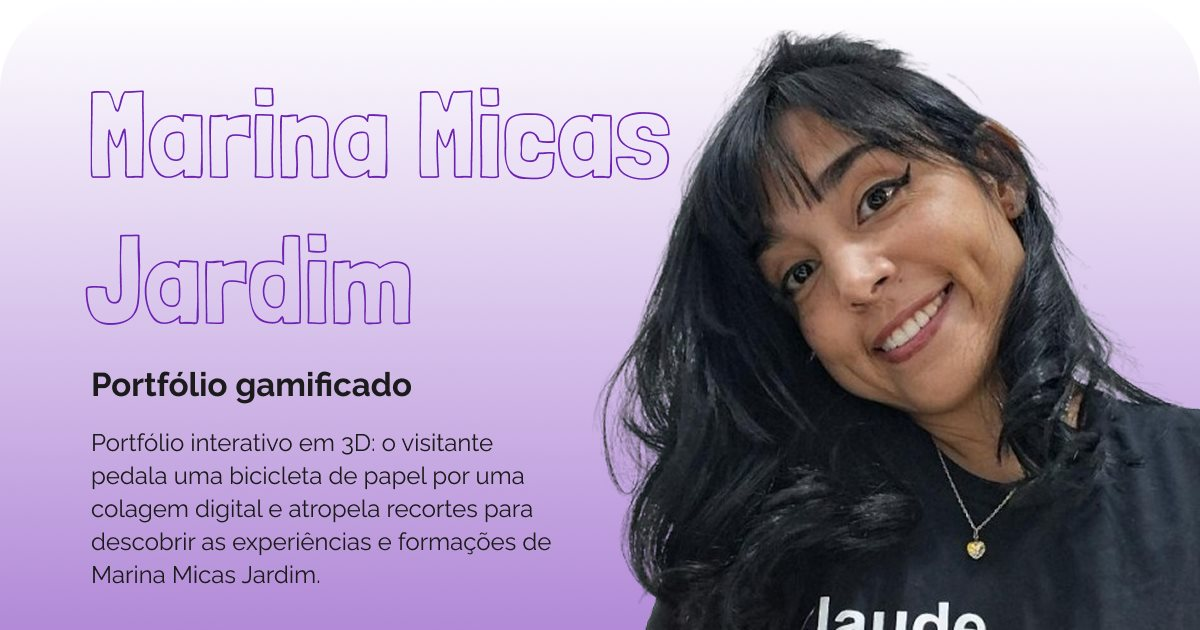
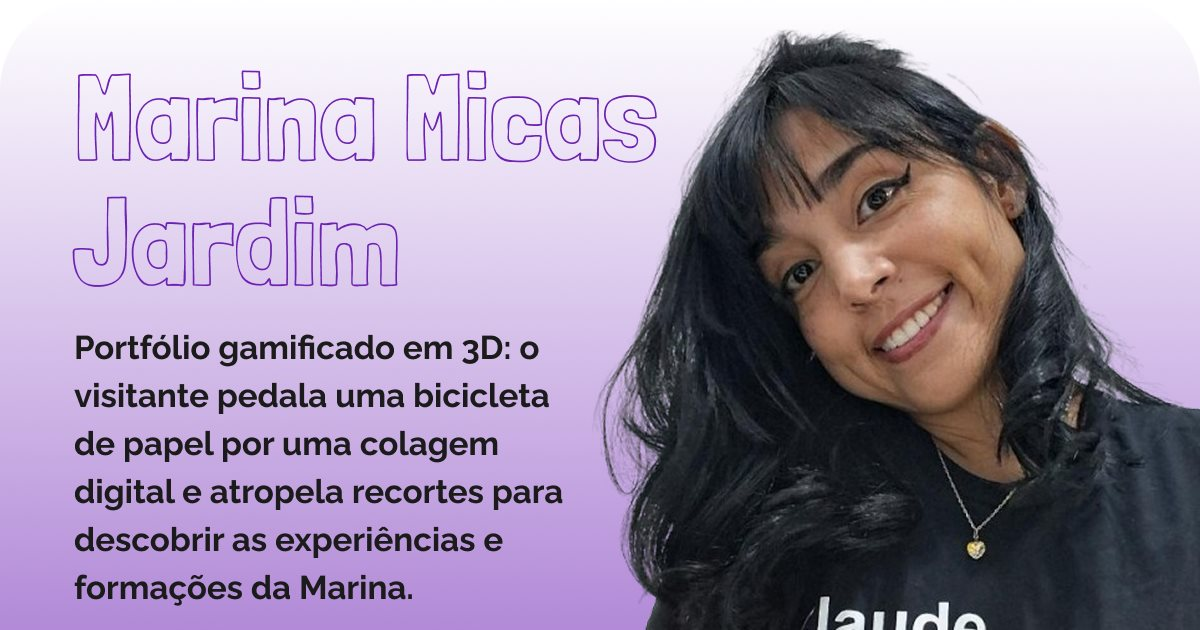
novas atualizações

diff --git a/src/data/level.js b/src/data/level.js
@@ -108,6 +108,20 @@ const item = (id, group, title, subtitle, x, z, extra = {}) => ({
   ...extra, // qualquer chave passada em `extra` sobrescreve os padrões acima
 })
 
+/*
+  Recortes em formato de CARTÃO (imagens das Experiências, 285 px de largura e alturas diferentes).
+  Todos ficam com a mesma largura no mundo (CARD_WIDTH metros); a altura acompanha a altura da imagem,
+  então nenhum cartão fica esticado nem com o texto miúdo.
+  - CARD_WIDTH: largura de todos os cartões em metros. Aumente para cartões maiores (mais legíveis de longe).
+  - CARD_IMAGE_WIDTH: largura das imagens dos cartões, em pixels (todas foram exportadas com 285 px).
+  Uso: size: cardSize(altura da imagem em pixels). Ex.: imagem de 285×563 → cardSize(563).
+  Observação: o jogo já recalcula a largura pela proporção real da imagem ao carregar; cardSize
+  define a ALTURA certa para que essa largura final dê CARD_WIDTH.
+*/
+const CARD_WIDTH = 2.4
+const CARD_IMAGE_WIDTH = 285
+const cardSize = (imageHeightPx) => [CARD_WIDTH, (CARD_WIDTH * imageHeightPx) / CARD_IMAGE_WIDTH]
+
 /**
  * ★ Lista de recortes (objetos do jogo). Para adicionar um, copie uma linha e mude
  * id, grupo, textos e posição. O inventário, a porcentagem e o "zerou" se ajustam sozinhos.
@@ -123,15 +137,39 @@ export const ITEMS = [
     reveal: true, // revela o texto em 3D em vez de abrir janela
   }),
 
-  // FASE 2 — Experiências › Desenvolvimento
-  item('dev-1', 'desenvolvimento', 'Projeto Dev 1', 'Desenvolvimento', -46, -100, { image: 'experiencias/desenvolvimento/dev-1.webp' }),
-  item('dev-2', 'desenvolvimento', 'Projeto Dev 2', 'Desenvolvimento', -46, -128, { image: 'experiencias/desenvolvimento/dev-2.webp' }),
+  // FASE 2 — Experiências › Desenvolvimento (ordem cronológica: o mais antigo aparece primeiro na rua)
+  item('dev-1', 'desenvolvimento', 'Redes Neurais FFNN', '2022', -46, -100, {
+    image: 'experiencias/desenvolvimento/desenvolvimento - Redes Neurais FFNN.png',
+    size: cardSize(773),
+    body: 'Trabalho de Conclusão de Curso da pós da PUC Minas Virtual para ser especialista em Inteligência Artificial e Aprendizagem de Máquina (2022). Ferramentas e temas: Feed-forward Neural Network, Machine Learning, Python, TensorFlow, Keras, Scikit-learn, Pandas, NumPy, Jupyter Notebook, Colaboratory, HTML, CSS, GitHub Pages e VS Code.',
+  }),
+  item('dev-2', 'desenvolvimento', 'Triplo brilho', '2023', -46, -128, {
+    image: 'experiencias/desenvolvimento/desenvolvimento - Triplo brilho.png',
+    size: cardSize(563),
+    body: 'Fiz um projeto chamado Triplo Brilho, que explora o terceiro diamante do tão conhecido duplo diamante em nossos processos de design (2023). Ferramentas e temas: Triplo diamante, Figma for VS Code, HTML, CSS, JavaScript, GitHub Pages e web design.',
+  }),
   // Experiências › Design
-  item('design-1', 'design', 'Projeto Design 1', 'UX/UI', -30, -100, { image: 'experiencias/design/design-1.webp' }),
-  item('design-2', 'design', 'Projeto Design 2', 'UX/UI', -30, -128, { image: 'experiencias/design/design-2.webp' }),
+  item('design-1', 'design', 'Equipe UX/UI Design', '2024', -30, -100, {
+    image: 'experiencias/design/design - equipe UX UI Design.png',
+    size: cardSize(605),
+    body: 'Realizei uma pesquisa com 4 categorias de resumos teóricos para ter um fundamento na estruturação de uma equipe de UX/UI design (2024). Temas: estrutura de equipe, Experiência da Marca (BX), Experiência do Cliente (CX), maturidade UX e profissões de UX/UI design.',
+  }),
+  item('design-2', 'design', 'Minha marca', '2024', -30, -128, {
+    image: 'experiencias/design/design - Minha marca.png',
+    size: cardSize(479),
+    body: 'A ideia da marca veio da tulipa por conta de ser uma flor que é única em cada caule, retratando assim a singularidade do ser humano (2024). Ferramentas e temas: Figma, logo, psicologia da cor, rebranding e tipografia.',
+  }),
   // Experiências › Diversidade
-  item('div-1', 'diversidade', 'Diversidade 1', 'Diversidade', -14, -100, { image: 'experiencias/diversidade/div-1.webp' }),
-  item('div-2', 'diversidade', 'Diversidade 2', 'Diversidade', -14, -128, { image: 'experiencias/diversidade/div-2.webp' }),
+  item('div-1', 'diversidade', 'Jogo das Diagonais', '2018', -14, -100, {
+    image: 'experiencias/diversidade/diversidade - Jogo das Diagonais.png',
+    size: cardSize(731),
+    body: 'Proponho um modelo de aprendizado lúdico com games inteligentes usando conteúdos reais em várias áreas, conectando teorias e conceitos (2018). Temas: aprendizagem metacognitiva, artigo científico, cognição, design interativo, game educativo, game inteligente, mapa mental, protótipo analógico e tridimensão da aprendizagem.',
+  }),
+  item('div-2', 'diversidade', 'Ícones Inteligentes', '2018', -14, -128, {
+    image: 'experiencias/diversidade/diversidade - Ícones Inteligentes.png',
+    size: cardSize(563),
+    body: 'Destaco a importância de criar uma exibição para ícones inteligentes dos nossos arquivos digitais, organizando e centralizando a aprendizagem (2018). Temas: arquivo digital, artigo científico, cognição, ícone inteligente, mapa mental e repositório digital.',
+  }),
 
   // FASE 2 — Formações (rua única)
   item('edu-1', 'formacoes', 'Formação 1', 'Informática', 30, -84, { image: 'formacoes/edu-1.webp' }),

diff --git a/index.html b/index.html
@@ -157,26 +157,35 @@
 
   <!-- HUD: header fixo com recortes de contato. Os mesmos links são copiados para as janelas "Zerou", "Contatos" e "Sobre" -->
   <header class="hud-header">
+    <!--
+      Contatos abrem DIRETO no destino, sem passar pelo visualizador em tela cheia (src/ui/viewer.js):
+      - data-viewer-skip: o visualizador ignora o link;
+      - target="_blank" rel="noopener": o site abre em nova aba e o jogo continua aberto nesta
+        (o progresso não se perde e o aviso "Sair do site?" não aparece);
+      - o e-mail (mailto:) não usa nova aba: ele chama o app de e-mail do aparelho.
+      Para um contato voltar a abrir dentro do jogo, apague data-viewer-skip e target dele.
+    -->
     <nav class="hud-links" aria-label="Contatos">
-      <!-- Troque SEU-PERFIL pelo final do endereço do seu LinkedIn -->
-      <a href="https://www.linkedin.com/in/marinamicas/" aria-label="LinkedIn">
+      <!-- LinkedIn: endereço completo do perfil -->
+      <a href="https://www.linkedin.com/in/marinamicas/" aria-label="LinkedIn" target="_blank" rel="noopener" data-viewer-skip>
         <img src="/src/assets/ui/icons/linkedin.png" alt="" /><span>LinkedIn</span>
       </a>
-      <a href="https://github.com/marinamicas" aria-label="GitHub">
+      <a href="https://github.com/marinamicas" aria-label="GitHub" target="_blank" rel="noopener" data-viewer-skip>
         <img src="/src/assets/ui/icons/github.png" alt="" /><span>GitHub</span>
       </a>
       <!-- Mantenha o "mailto:" e troque só o e-mail -->
-      <a href="mailto:marinamicas@gmail.com" aria-label="E-mail">
+      <a href="mailto:marinamicas@gmail.com" aria-label="E-mail" data-viewer-skip>
         <img src="/src/assets/ui/icons/email.png" alt="" /><span>E-mail</span>
       </a>
       <!-- WhatsApp: 55 + DDD + número, só dígitos (ex.: https://wa.me/5521999998888) -->
-      <a href="https://wa.me/5521985487666" aria-label="WhatsApp">
+      <a href="https://wa.me/5521985487666" aria-label="WhatsApp" target="_blank" rel="noopener" data-viewer-skip>
         <img src="/src/assets/ui/icons/whatsapp.png" alt="" /><span>WhatsApp</span>
       </a>
       <!-- Currículo: o PDF PRECISA estar em public/docs/curriculo-marina-micas.pdf.
            Só a pasta public/ vai para o site publicado; um PDF na pasta docs/ da raiz funciona no
-           npm run dev, mas dá erro 404 no GitHub Pages. -->
-      <a href="./docs/curriculo-marina-micas.pdf" aria-label="Currículo em PDF" target="_blank">
+           npm run dev, mas dá erro 404 no GitHub Pages.
+           Abre direto no leitor de PDF do navegador/celular, em nova aba. -->
+      <a href="./docs/curriculo-marina-micas.pdf" aria-label="Currículo em PDF" target="_blank" rel="noopener" data-viewer-skip>
         <img src="/src/assets/ui/icons/curriculo.png" alt="" /><span>Currículo (PDF)</span>
       </a>
     </nav>
@@ -244,8 +253,8 @@
     <section style="padding: 24px; max-width: 640px; margin: 0 auto; line-height: 1.5">
       <h2>Marina Micas Jardim — UX/UI Designer em transição para dados</h2>
       <p>Este portfólio é um jogo em 3D que precisa de JavaScript para funcionar. Ative o JavaScript ou use os links de contato:
-        <a href="https://www.linkedin.com/in/SEU-PERFIL">LinkedIn</a> · <a href="https://github.com/marinamicas">GitHub</a> ·
-        <a href="mailto:seu-email@exemplo.com">E-mail</a>.</p>
+        <a href="https://www.linkedin.com/in/marinamicas/">LinkedIn</a> · <a href="https://github.com/marinamicas">GitHub</a> ·
+        <a href="mailto:marinamicas@gmail.com">E-mail</a> · <a href="https://wa.me/5521985487666">WhatsApp</a>.</p>
     </section>
   </noscript>
 

diff --git a/src/ui/viewer.js b/src/ui/viewer.js
@@ -18,8 +18,10 @@ import { ui } from './modal.js'
      "Copiar link", em vez de um quadro em branco.
    - E-mail e telefone mostram um cartão com "Copiar" e "Abrir app"/"Ligar".
    - Vídeos do YouTube/Vimeo são convertidos para a URL "embed".
-   - PDFs: no computador abrem no leitor do navegador; no celular (site publicado)
-     pelo visualizador do Google Docs.
+   - PDFs: no computador abrem no leitor do navegador, dentro do iframe; no
+     celular/tablet aparece um cartão com "Abrir PDF" (leitor nativo, outra aba)
+     e "Baixar". Celulares não exibem PDF em iframe, e o visualizador do Google
+     Docs recusa arquivos grandes como o currículo.
    - Fechar (botão, Esc ou "voltar" do celular) devolve o jogador exatamente
      para onde estava: o jogo fica pausado enquanto o visualizador está aberto
      (ui.viewerOpen = true faz o loop de main.js não rodar).
@@ -167,10 +169,22 @@ function render(url) {
     return card('🔒', host, 'Este site não permite ser exibido dentro de outras páginas. Copie o link para visitá-lo depois, sem perder seu progresso no jogo.')
   }
   if (url.pathname.toLowerCase().endsWith('.pdf')) {
-    // Celulares não mostram PDF dentro de iframe: usa o visualizador do Google (só funciona com o site publicado)
-    const isPublic = !/^(localhost|127\.|192\.168\.)/.test(location.hostname)
-    if (isTouchDevice() && isPublic) return iframeHTML(`https://docs.google.com/gview?embedded=1&url=${encodeURIComponent(url.href)}`)
-    return iframeHTML(url.href, { sandbox: false }) // o leitor de PDF do navegador não funciona com sandbox
+    // Computador: o leitor de PDF do próprio navegador funciona dentro do iframe (sem sandbox, senão ele não carrega).
+    if (!isTouchDevice()) return iframeHTML(url.href, { sandbox: false })
+    // Celular/tablet: o Chrome do Android NÃO mostra PDF dentro de iframe, e o visualizador do Google Docs
+    // (que usávamos antes) recusa arquivos grandes ("Este arquivo é grande demais para ser visualizado").
+    // Então mostramos um cartão que abre o PDF no leitor nativo do aparelho, em OUTRA aba:
+    // - target="_blank": o jogo continua aberto nesta aba (o progresso não se perde e o aviso de saída não dispara);
+    // - data-viewer-skip: este link não é interceptado de novo pelo próprio visualizador;
+    // - download: o botão "Baixar" salva o arquivo no aparelho.
+    const file = url.pathname.split('/').pop()
+    return card(
+      '📄',
+      'Documento em PDF', // genérico: vale para qualquer PDF (o nome do link já aparece na barra do topo)
+      'Abra o PDF no leitor do seu celular (em outra aba, o jogo continua aqui) ou baixe o arquivo.',
+      `<a class="btn" href="${escapeHTML(url.href)}" target="_blank" rel="noopener" data-viewer-skip>Abrir PDF</a>
+       <a class="btn" href="${escapeHTML(url.href)}" download="${escapeHTML(file)}" data-viewer-skip>Baixar</a>`,
+    )
   }
   return iframeHTML(embeddableUrl(url))
 }

diff --git a/src/ui/screens.js b/src/ui/screens.js
@@ -194,10 +194,27 @@ export function enableExitGuard(isActive) {
   exitGuardActive = isActive
 }
 
+/**
+ * Até quando (relógio performance.now(), em ms) o aviso de saída fica desligado.
+ * Clicar num contato direto (link com data-viewer-skip, ex.: mailto:) faz alguns navegadores
+ * dispararem beforeunload mesmo sem sair da página; sem esta pausa apareceria "Sair do site?"
+ * e depois o Game Over só por ter clicado no e-mail.
+ */
+let skipExitGuardUntil = 0
+// Fase de captura: anota o clique antes de o navegador seguir o link
+document.addEventListener(
+  'click',
+  (e) => {
+    if (e.target.closest?.('a[data-viewer-skip]')) skipExitGuardUntil = performance.now() + 1500 // 1,5 s de pausa
+  },
+  true,
+)
+
 // beforeunload: disparado quando a aba vai fechar/recarregar. preventDefault + returnValue
 // fazem o navegador perguntar "Sair do site?". O setTimeout só roda se a pessoa ficar.
 addEventListener('beforeunload', (e) => {
   if (!exitGuardActive() || isComplete()) return
+  if (performance.now() < skipExitGuardUntil) return // acabou de clicar num contato direto (ex.: e-mail)
   e.preventDefault()
   e.returnValue = '' // navegadores mais antigos exigem returnValue para mostrar o aviso
   setTimeout(() => {

diff --git a/docs/MANUAL-DE-ATUALIZACAO.md b/docs/MANUAL-DE-ATUALIZACAO.md
@@ -632,15 +632,20 @@ simular a pinça com dois dedos.
 
 **Arquivo:** `src/ui/viewer.js`.
 
-Todo link para outro site, PDF, e-mail ou telefone é interceptado e aberto por cima do jogo, em tela cheia.
-O jogo fica pausado e, ao fechar (botão **✕ Voltar ao jogo**, tecla **Esc** ou botão **voltar** do celular),
-tudo continua exatamente de onde parou. Nada abre em nova aba.
+Links para outro site, PDF, e-mail ou telefone (por exemplo, os "Saiba mais" dos recortes) são interceptados e
+abertos por cima do jogo, em tela cheia. O jogo fica pausado e, ao fechar (botão **✕ Voltar ao jogo**, tecla **Esc**
+ou botão **voltar** do celular), tudo continua exatamente de onde parou.
+
+**Exceção: os contatos do topo** (LinkedIn, GitHub, e-mail, WhatsApp e currículo) têm `data-viewer-skip` e abrem
+**direto** no destino, em nova aba; o e-mail abre o app de e-mail. Como as janelas "Zerou", "Contatos" e "Sobre"
+copiam o topo da página, elas seguem a mesma regra. Para um contato voltar ao visualizador, apague
+`data-viewer-skip` e `target="_blank"` dele no `index.html`.
 
 | Tipo de link | O que aparece |
 |---|---|
 | Site comum (ex.: portfólio no Behance, artigo) | O site dentro de um quadro (iframe) |
 | YouTube / Vimeo | O player de vídeo (o endereço é convertido para a versão "embed") |
-| PDF (ex.: currículo) | O PDF no leitor do navegador; no celular, pelo visualizador do Google (só com o site publicado) |
+| PDF | No computador, o PDF no leitor do navegador. No celular, um cartão com "Abrir PDF" (leitor do aparelho, nova aba) e "Baixar": celulares não mostram PDF dentro da página e o visualizador do Google recusa arquivos grandes |
 | E-mail / telefone | Cartão com o endereço, "Copiar" e "Abrir app de e-mail" / "Ligar" |
 | LinkedIn, GitHub, WhatsApp, Instagram… | Cartão com o link e "Copiar" (esses sites proíbem ser exibidos dentro de outras páginas) |
 
@@ -768,7 +773,7 @@ Rode o projeto (`npm run dev`) e confira esta lista:
 - [ ] Atropelar a Marina mostra o texto de apresentação em 3D.
 - [ ] Atropelar cada recorte: abre a janela, o contador do inventário aumenta 1, e depois aparece a janela no chão.
 - [ ] O "Saiba mais" (janela e janela do chão) abre no visualizador em tela cheia, sem nova aba, e o inventário mostra "🔗 saiba mais visitado".
-- [ ] Os links do topo (LinkedIn, GitHub, e-mail, WhatsApp, currículo) abrem no visualizador; Esc e "voltar" fecham.
+- [ ] Os contatos do topo (LinkedIn, GitHub, WhatsApp, currículo) abrem direto em nova aba e o e-mail abre o app de e-mail, sem aviso de saída.
 - [ ] Rebobinar para a bifurcação e para o início: os recortes conquistados **continuam destruídos**.
 - [ ] Apertar F5: os recortes conquistados continuam destruídos e o contador continua igual.
 - [ ] Com recortes faltando, recarregar a página (F5) → aviso do navegador → "Cancelar/Ficar" → Game Over.

diff --git a/README.md b/README.md
@@ -339,7 +339,8 @@ marina-portfolio/
 - **Placas magnéticas:** ao passar perto de uma placa sem virar, a bike é puxada suavemente para a rua que ela indica.
 - **Inventário:** mostra os recortes conquistados e se o link "saiba mais" foi aberto. Clicar num recorte leva a bike até ele.
 - **Game Over:** só ao tentar **fechar ou recarregar a aba** sem 100% do inventário (aviso nativo do navegador; se a pessoa ficar, aparece o Game Over).
-- **Links externos:** abrem num visualizador em tela cheia dentro do jogo. Sites que proíbem iframe mostram um cartão com "Copiar link".
+- **Contatos do topo** (LinkedIn, GitHub, e-mail, WhatsApp, currículo, também nas janelas "Zerou", "Contatos" e "Sobre"): abrem **direto** no destino, em nova aba (o e-mail abre o app de e-mail). Isso vem do atributo `data-viewer-skip` em cada `<a>` do `index.html`.
+- **Links "Saiba mais" dos recortes:** abrem num visualizador em tela cheia dentro do jogo. Sites que proíbem iframe mostram um cartão com "Copiar link". PDFs no celular mostram um cartão com "Abrir PDF" e "Baixar", porque celulares não exibem PDF dentro da página.
 - **Contador de visitantes:** via API gratuita [Abacus](https://abacus.jasoncameron.dev); configuração em `VISITORS` (`level.js`).
 - **Sobre a Marina:** a miniatura da foto abre a janela com foto, apresentação, easter egg da bike e contatos.
 - **Zerou:** aparece quando o último recorte é atropelado.
